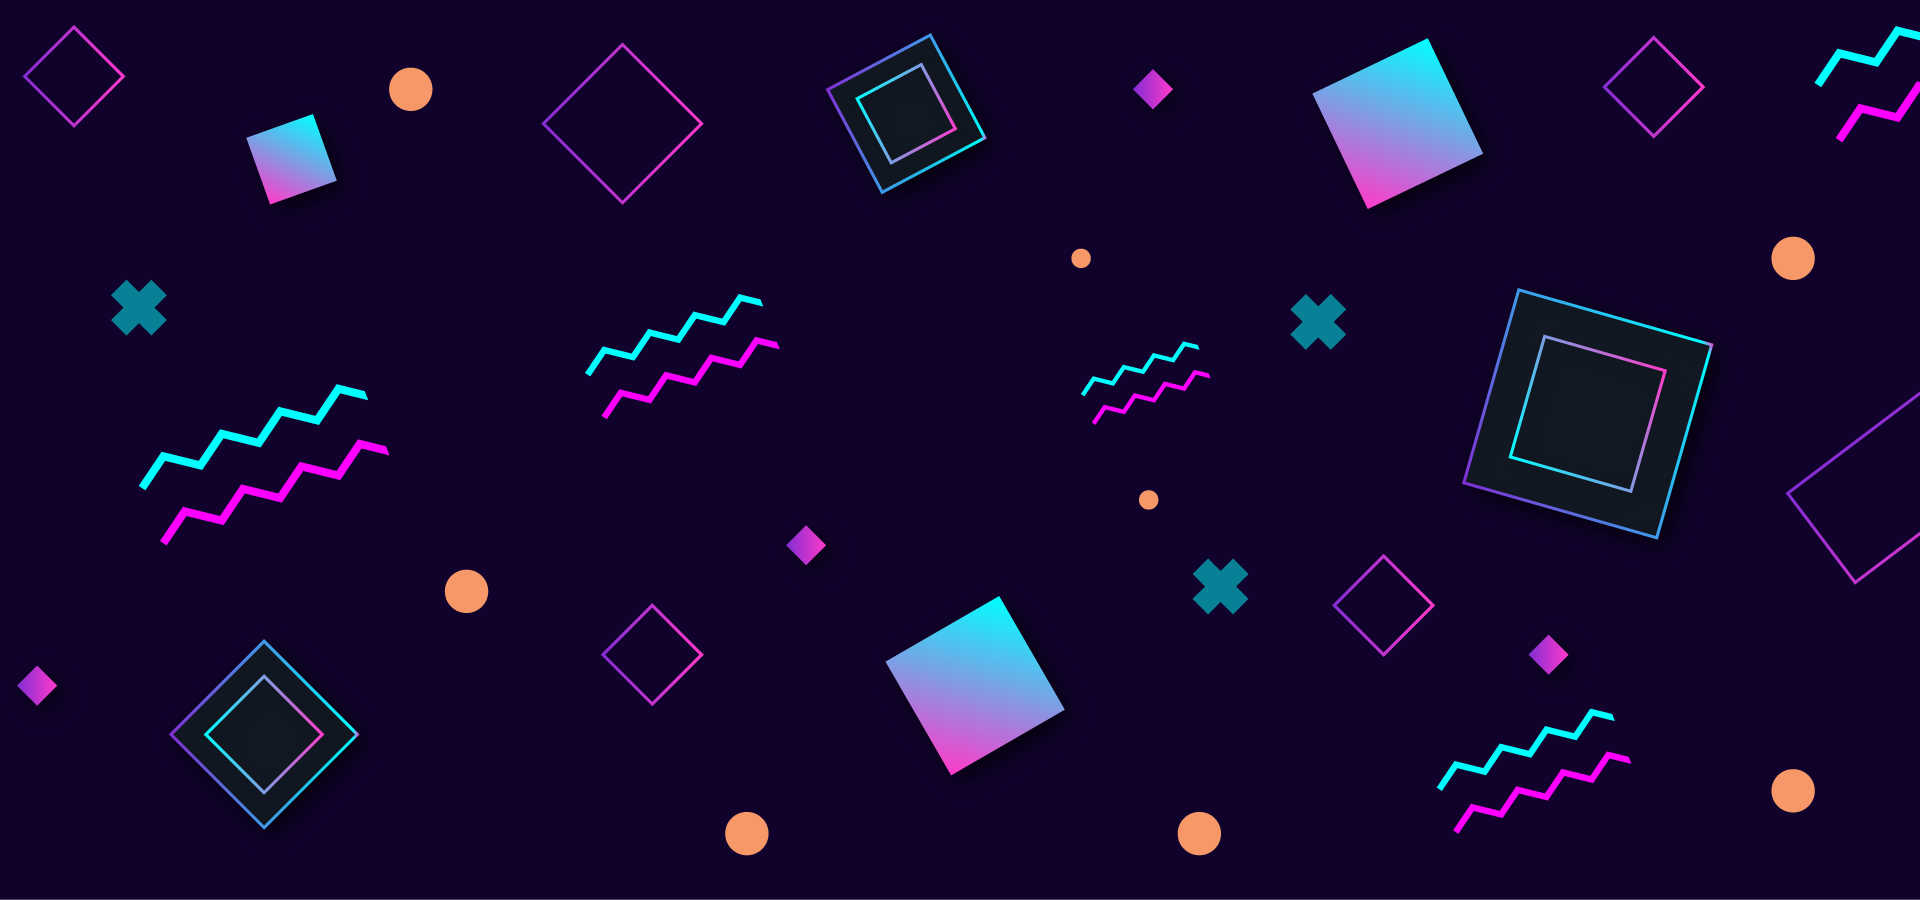
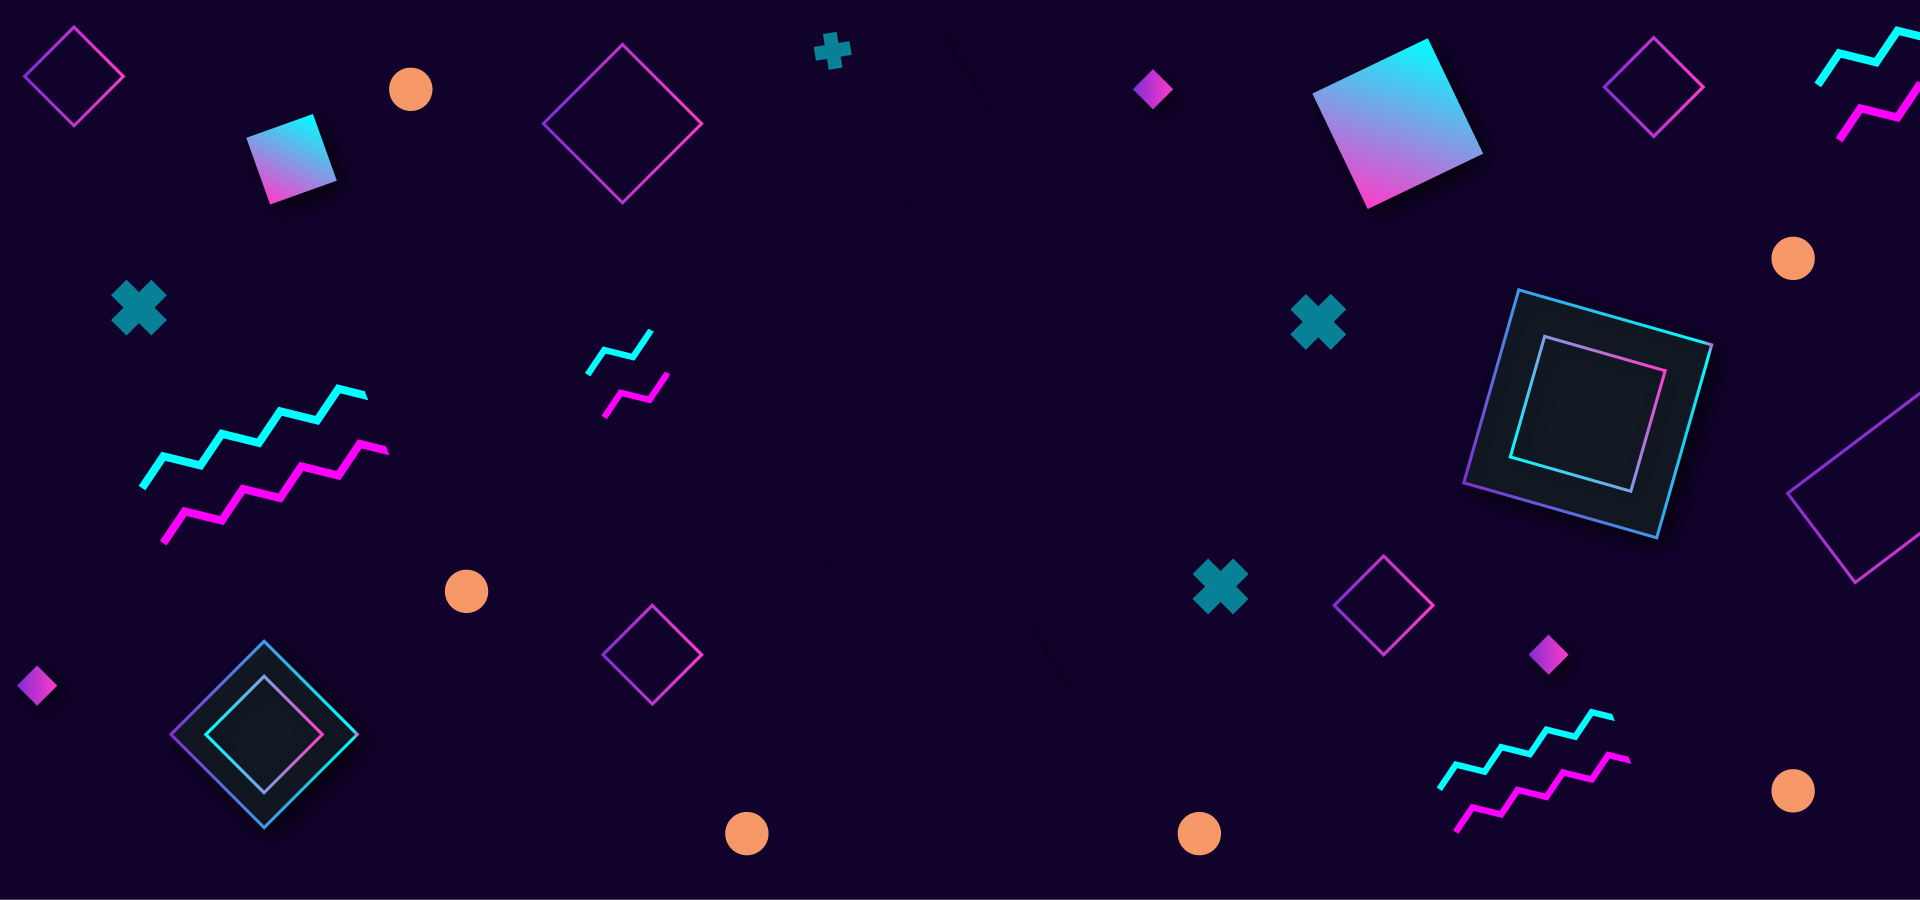
[Frontend] <feature>: Add Timer component
Timer component를 추가하여 퀴즈 시작부터 시간을 측정

배경이미지 수정

ResultChart component를 추가하여 최종 결과 도출

diff --git a/src/components/QuizPage/SingleQuiz.jsx b/src/components/QuizPage/SingleQuiz.jsx
@@ -35,14 +35,6 @@ const SingleQuiz = ({ singleQuiz }) => {
     }
   };
 
-  const decodeHtmlEntity = (encodedStr) => {
-    let textarea = document.createElement("textarea");
-    textarea.innerHTML = encodedStr;
-
-    let result = textarea.value;
-    return result;
-  };
-
   useEffect(() => {
     let randomList = [...incorrect_answers, correct_answer];
     shuffle(randomList);
@@ -64,7 +56,7 @@ const SingleQuiz = ({ singleQuiz }) => {
   return (
     <div className="w-96 h-96 flex flex-col items-center justify-between">
       <div className="text-lg w-full text-center bg-white opacity-30 rounded-lg flex items-center jusify-center px-5 py-10">
-        {decodeHtmlEntity(question)}
+        {question}
       </div>
       <div className="w-full h-40 flex flex-col items-center justify-between list-none text-xl">
         {list.map((answer, idx) => (
@@ -73,7 +65,7 @@ const SingleQuiz = ({ singleQuiz }) => {
             onClick={(e) => selectResult(e)}
             className="bg-white opacity-50 w-full flex items-center justify-center rounded-sm cursor-pointer active:opacity-70 py-0.5 transition-all lists"
           >
-            {decodeHtmlEntity(answer)}
+            {answer}
           </li>
         ))}
       </div>

diff --git a/src/components/QuizResult/index.jsx b/src/components/QuizResult/index.jsx
@@ -1,7 +1,33 @@
-import React from "react";
+import React, { useEffect, useState } from "react";
+import { useSelector } from "react-redux";
+import ResultChart from "./ResultChart";
 
 const QuizResult = () => {
-  return <div />;
+  const quiz = useSelector((state) => state.quiz.quiz);
+  const result = useSelector((state) => state.results.quizResult);
+  const [correct, setCorrect] = useState(0);
+  const [incorrect, setIncorrect] = useState(0);
+
+  useEffect(() => {
+    let o = 0;
+    let x = 0;
+    for (let i = 0; i < result.length; i++) {
+      if (result[i] === quiz[i].correct_answer) {
+        o++;
+      } else {
+        x++;
+      }
+    }
+    setCorrect(o);
+    setIncorrect(x);
+  }, []);
+  return (
+    <div className="w-4/5 h-4/5 bg-white rounded-xl">
+      {correct + incorrect === quiz.length ? (
+        <ResultChart correct={correct} incorrect={incorrect} quizNum={quiz.length} />
+      ) : null}
+    </div>
+  );
 };
 
 export default QuizResult;

diff --git a/src/components/QuizPage/Timer.jsx b/src/components/QuizPage/Timer.jsx
@@ -1,0 +1,35 @@
+import React, { useEffect, useState } from "react";
+import { setTimer } from "../../modules/results";
+import { useSelector, useDispatch } from "react-redux";
+
+const Timer = () => {
+  const time = useSelector((state) => state.results.time);
+  const [min, setMin] = useState(0);
+  const [sec, setSec] = useState(0);
+
+  const dispatch = useDispatch();
+
+  const onSetTimer = (time) => {
+    dispatch(setTimer(time));
+  };
+
+  useEffect(() => {
+    setTimeout(() => {
+      onSetTimer(time + 1000);
+    }, 1000);
+    if (time < 60000) {
+      setSec(time / 1000);
+    } else {
+      setMin(parseInt(time / 60000));
+      setSec((time % 60000) / 1000);
+    }
+  }, [time]);
+
+  return (
+    <div className="absolute top-5 right-10">
+      <span>{min < 10 ? `0${min}` : min}</span>:<span>{sec < 10 ? `0${sec}` : sec}</span>
+    </div>
+  );
+};
+
+export default Timer;

diff --git a/src/components/QuizMain/QuizInput.jsx b/src/components/QuizMain/QuizInput.jsx
@@ -25,6 +25,14 @@ const QuizInput = () => {
     dispatch(setQuiz(quiz));
   };
 
+  const decodeHtmlEntity = (encodedStr) => {
+    let textarea = document.createElement("textarea");
+    textarea.innerHTML = encodedStr;
+
+    let result = textarea.value;
+    return result;
+  };
+
   const handleChange = (e) => {
     let { name, value } = e.target;
     setCurrentOptions({ ...currentOptions, [name]: value });
@@ -46,6 +54,12 @@ const QuizInput = () => {
 
     const res = await axios(`${API_URI}?${queries}`);
     const data = res.data.results;
+    for (let i of data) {
+      i.category = decodeHtmlEntity(i.category);
+      i.question = decodeHtmlEntity(i.question);
+      i.correct_answer = decodeHtmlEntity(i.correct_answer);
+      i.incorrect_answers = i.incorrect_answers.map((answer) => decodeHtmlEntity(answer));
+    }
     onSetQuiz(data);
   };
 

diff --git a/src/components/QuizPage/index.jsx b/src/components/QuizPage/index.jsx
@@ -3,6 +3,7 @@ import { useDispatch, useSelector } from "react-redux";
 import { setCurrentQuiz } from "../../modules/quiz";
 import SingleQuiz from "./SingleQuiz";
 import ProgressBar from "./ProgressBar";
+import Timer from "./Timer";
 
 const QuizPage = ({ page }) => {
   const quiz = useSelector((state) => state.quiz.quiz);
@@ -21,8 +22,9 @@ const QuizPage = ({ page }) => {
 
   return (
     <main className="absolute flex flex-col w-full h-full items-center justify-evenly">
+      <Timer />
       <ProgressBar quiz={quiz} />
-      <SingleQuiz singleQuiz={quiz[currentQuiz]} />
+      <SingleQuiz singleQuiz={page} />
       {result[currentQuiz] ? (
         <div className="absolute bottom-32">
           <button onClick={nextQuestion}>

diff --git a/src/components/QuizResult/ResultChart.jsx b/src/components/QuizResult/ResultChart.jsx
@@ -1,0 +1,26 @@
+import Chart from "react-google-charts";
+
+const ResultChart = ({ correct, incorrect, quizNum }) => {
+  return (
+    <Chart
+      width={"200px"}
+      height={"200px"}
+      chartType="PieChart"
+      loader={<div>Loading Chart</div>}
+      data={[
+        ["Language", "Speakers (in millions)"],
+        ["Correct", correct],
+        ["Incorrect", incorrect],
+      ]}
+      options={{
+        legend: "none",
+        pieSliceText: "label",
+        pieStartAngle: 100,
+        backgroundColor: "none",
+      }}
+      rootProps={{ "data-testid": "2" }}
+    />
+  );
+};
+
+export default ResultChart;

diff --git a/src/modules/results/reducer.js b/src/modules/results/reducer.js
@@ -1,13 +1,16 @@
-import { SET_RESULT } from "./actions";
+import { SET_RESULT, SET_TIMER } from "./actions";
 
 const initialState = {
   quizResult: [],
+  time: 0,
 };
 
 const results = (state = initialState, action) => {
   switch (action.type) {
     case SET_RESULT:
       return Object.assign({}, state, { quizResult: action.payload.result });
+    case SET_TIMER:
+      return Object.assign({}, state, { time: action.payload.time });
     default:
       return state;
   }

diff --git a/src/modules/results/actions.js b/src/modules/results/actions.js
@@ -1,8 +1,16 @@
 export const SET_RESULT = "results/SET_RESULT";
+export const SET_TIMER = "results/SET_TIMER";
 
 export const setResult = (result) => ({
   type: SET_RESULT,
   payload: {
     result,
+  },
+});
+
+export const setTimer = (time) => ({
+  type: SET_TIMER,
+  payload: {
+    time,
   },
 });
